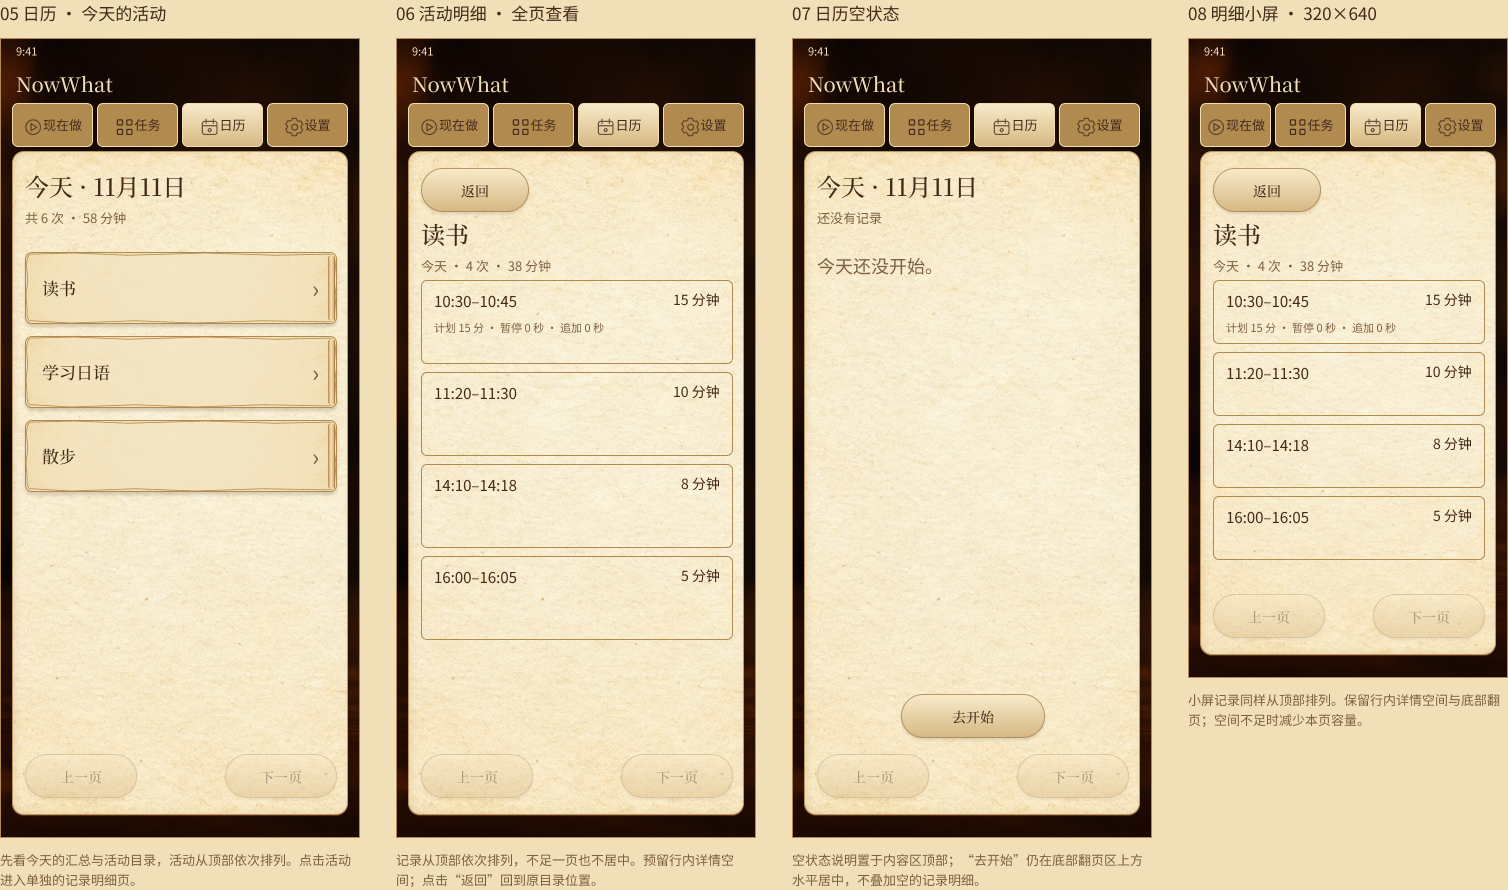
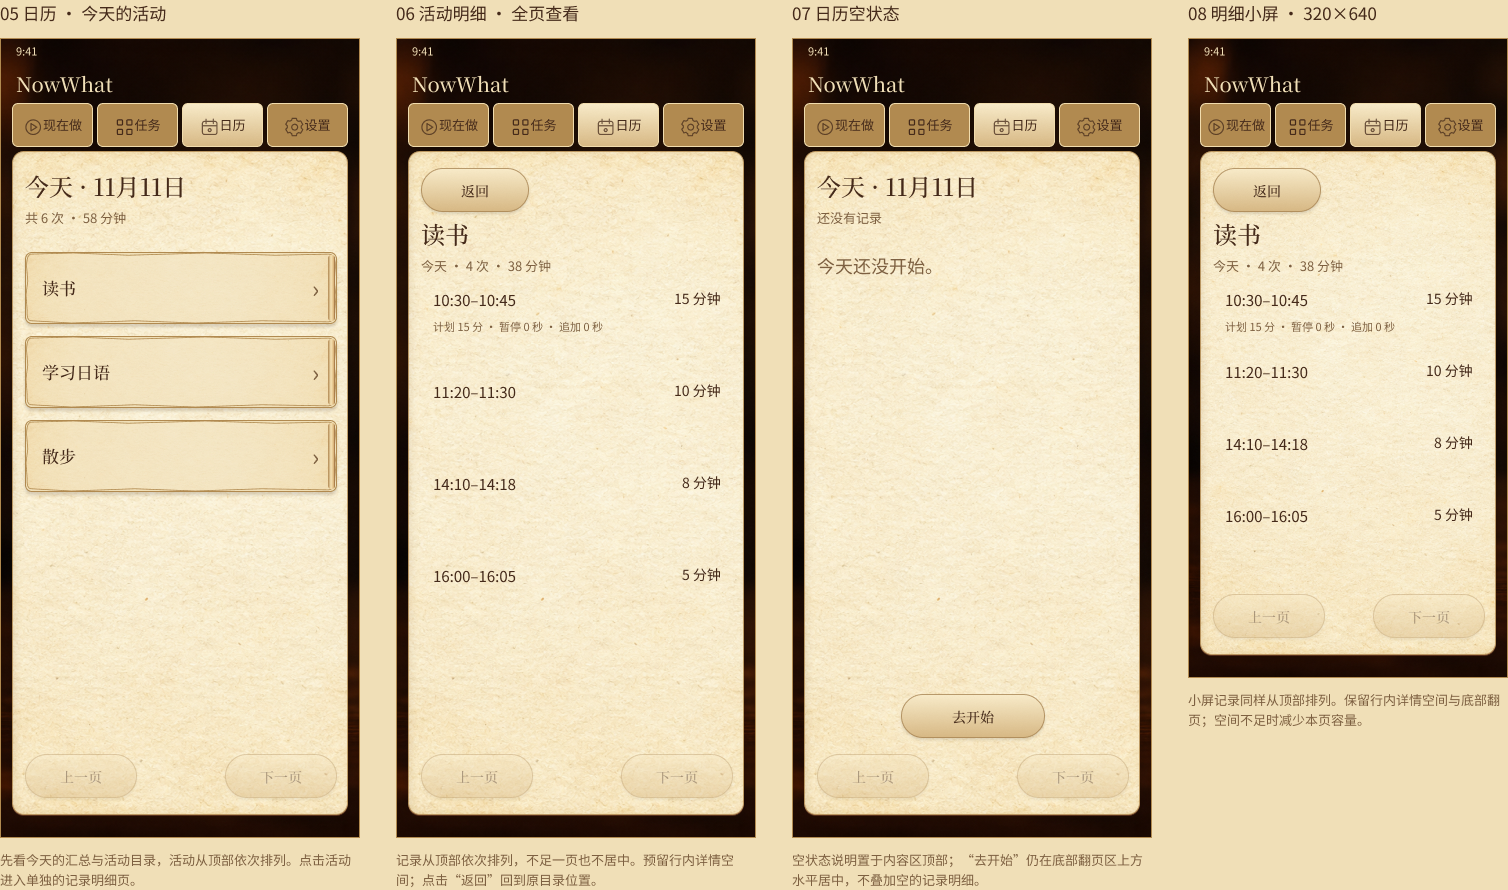
design: remove Android record row borders

diff --git a/docs/deployment/android-visuals-2026-11-12/borderless-record-rows.js b/docs/deployment/android-visuals-2026-11-12/borderless-record-rows.js
@@ -1,0 +1,8 @@
+await figma.setCurrentPageAsync(await figma.getNodeByIdAsync('49:243'));
+const ids=['574:10556','574:10426','574:10427','574:10428','574:10429','574:10472','574:10473','574:10474','574:10475'];
+const before=[];
+for(const id of ids){const n=await figma.getNodeByIdAsync(id);before.push({id,x:n.x,y:n.y,w:n.width,h:n.height,fills:n.fills,strokes:n.strokes});}
+for(const id of ids){const n=await figma.getNodeByIdAsync(id);n.strokes=[];}
+const after=[];
+for(const b of before){const n=await figma.getNodeByIdAsync(b.id);if(n.strokes.length||n.x!==b.x||n.y!==b.y||n.width!==b.w||n.height!==b.h||JSON.stringify(n.fills)!==JSON.stringify(b.fills))throw new Error('Border/layout check failed');after.push({id:n.id,strokes:n.strokes,x:n.x,y:n.y,w:n.width,h:n.height});}
+return{mutatedNodeIds:ids,before,after,scope:'Remove record row outer borders; preserve transparent fill and geometry'};

diff --git a/docs/deployment/android-visuals-2026-11-12/README.md b/docs/deployment/android-visuals-2026-11-12/README.md
@@ -20,7 +20,7 @@ Cloned the wireframe board into a separate visual board, including its five loca
 
 Tasks retain top alignment in short/full/last-page states, true pagination structure, drag/pin/start targets and fixed bottom pagers. Calendar keeps Today and records as separate views, top-aligned entries, reserved record-detail space, and “返回”. Home preserves the three independently raised title positions and the original Start/Change/time/condition/next-step coordinates.
 
-November 12 follow-up: the record-detail row background is now transparent. Removed the yellow fill from the local session-row master and all eight normal/compact instances; retained text, brass borders and geometry. Updated `calendar.png` was visually inspected. `transparent-record-rows.js` and its audit record this final override after the initial styling scripts; the original audit remains historical.
+November 12 follow-up: record-detail rows now have transparent backgrounds and no outer borders. Removed the yellow fill and solid border from the local session-row master and all eight normal/compact instances; retained text and geometry. Updated `calendar.png` was visually inspected. Run `transparent-record-rows.js` then `borderless-record-rows.js` after the initial styling scripts; their audits record these final overrides. Earlier audits remain historical.
 
 The activity editor keeps its fixed heading/close target and actions above the keyboard, expanded description, and scrollable form body. The accompanying motion note specifies concurrent blur and IME dismissal with a 0–120 ms opacity-only fade, no vertical squash or delayed second slide, stable background until viewport settling, and page/task-anchor preservation. The keyboard remains a labeled system placeholder.
 
